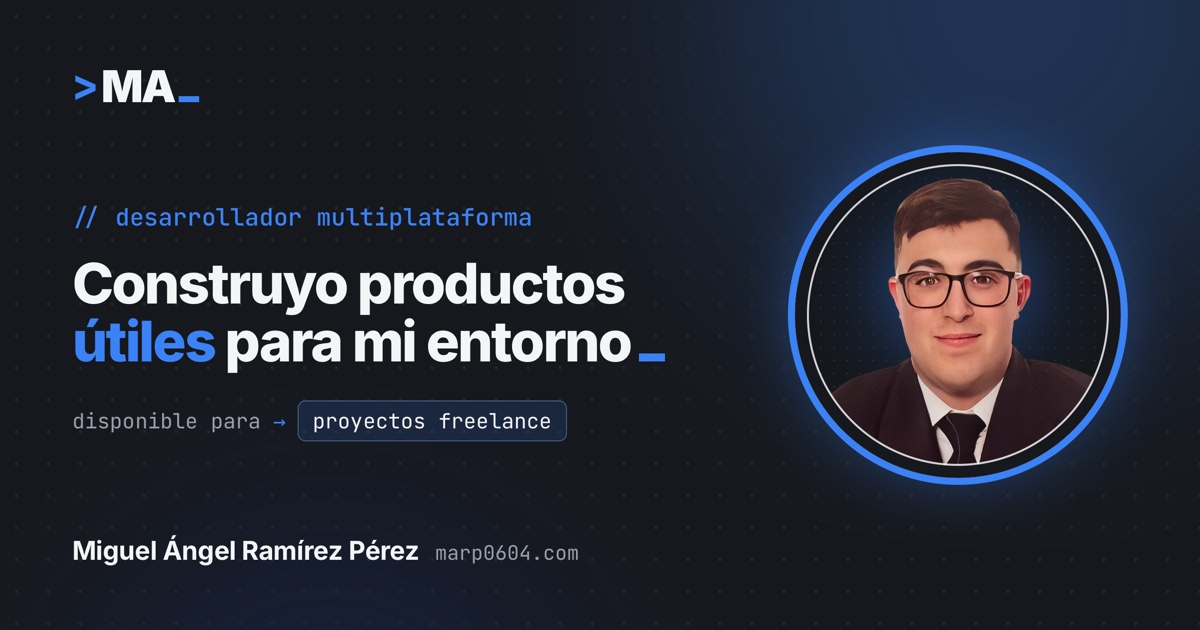
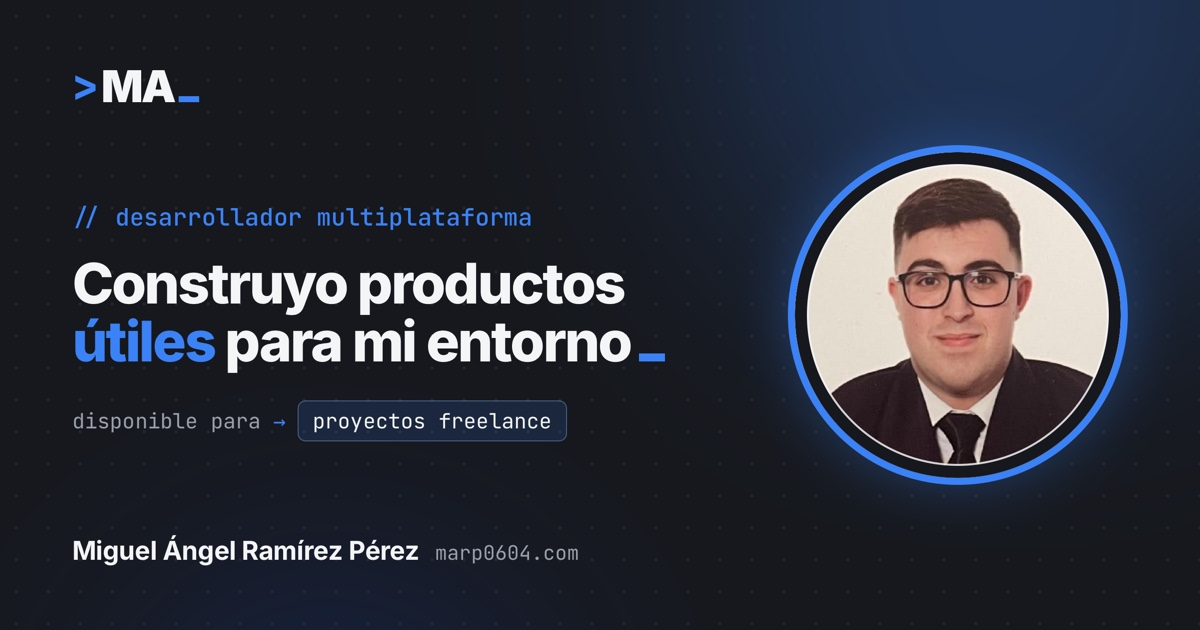
fix: recupera la foto original y deja pulsable la X del menú móvil
- Vuelve la foto de perfil original (460×460) y regenera og-image.jpg con ella
- Con el menú móvil abierto, el nav sube por encima del overlay para que la X
  se vea y cierre el menú (antes quedaba tapada; también en producción)

Changed region(s): [[0.6475, 0.2413, 0.925, 0.6333]]

diff --git a/src/styles/global.css b/src/styles/global.css
@@ -175,6 +175,14 @@ nav.scrolled {
 .nav-hamburger[aria-expanded="true"] span:nth-child(1) { transform: translateY(6.5px) rotate(45deg); }
 .nav-hamburger[aria-expanded="true"] span:nth-child(2) { opacity: 0; transform: scaleX(0); }
 .nav-hamburger[aria-expanded="true"] span:nth-child(3) { transform: translateY(-6.5px) rotate(-45deg); }
+/* Con el menú abierto, la barra sube por encima del overlay: el z-index de la
+   hamburguesa solo cuenta dentro del nav, así que sin esto el overlay tapa la X.
+   El logo de la barra se oculta para no duplicar el del overlay. */
+nav:has(.nav-hamburger[aria-expanded="true"]) {
+  z-index: 160; background: transparent; border-bottom-color: transparent;
+  backdrop-filter: none; -webkit-backdrop-filter: none;
+}
+nav:has(.nav-hamburger[aria-expanded="true"]) .nav-logo { visibility: hidden; }
 
 .nav-mobile-overlay {
   display: none; position: fixed; inset: 0; z-index: 150;

diff --git a/CLAUDE.md b/CLAUDE.md
@@ -34,7 +34,7 @@ Requiere Node.js. No hay tests ni linter configurados; la verificación es
   (con focus-trap y bloqueo de scroll).
 - `src/components/Icon*.astro` — iconos SVG inline (GitHub, LinkedIn, CV).
 - `src/components/LogoMark.astro` — logo `>MA_` como texto (escala con `font-size`).
-- `public/` — `perfil.jpg` (foto real con fondo de marca), `og-image.jpg`
+- `public/` — `perfil.jpg` (foto real original, 460×460), `og-image.jpg`
   (1200×630), CV en PDF, `robots.txt`, favicons (`favicon.ico`, `favicon-32.png`,
   `apple-touch-icon.png`, `icon-192/512.png` + `site.webmanifest`) y
   `brand/` con los logos PNG del kit.
